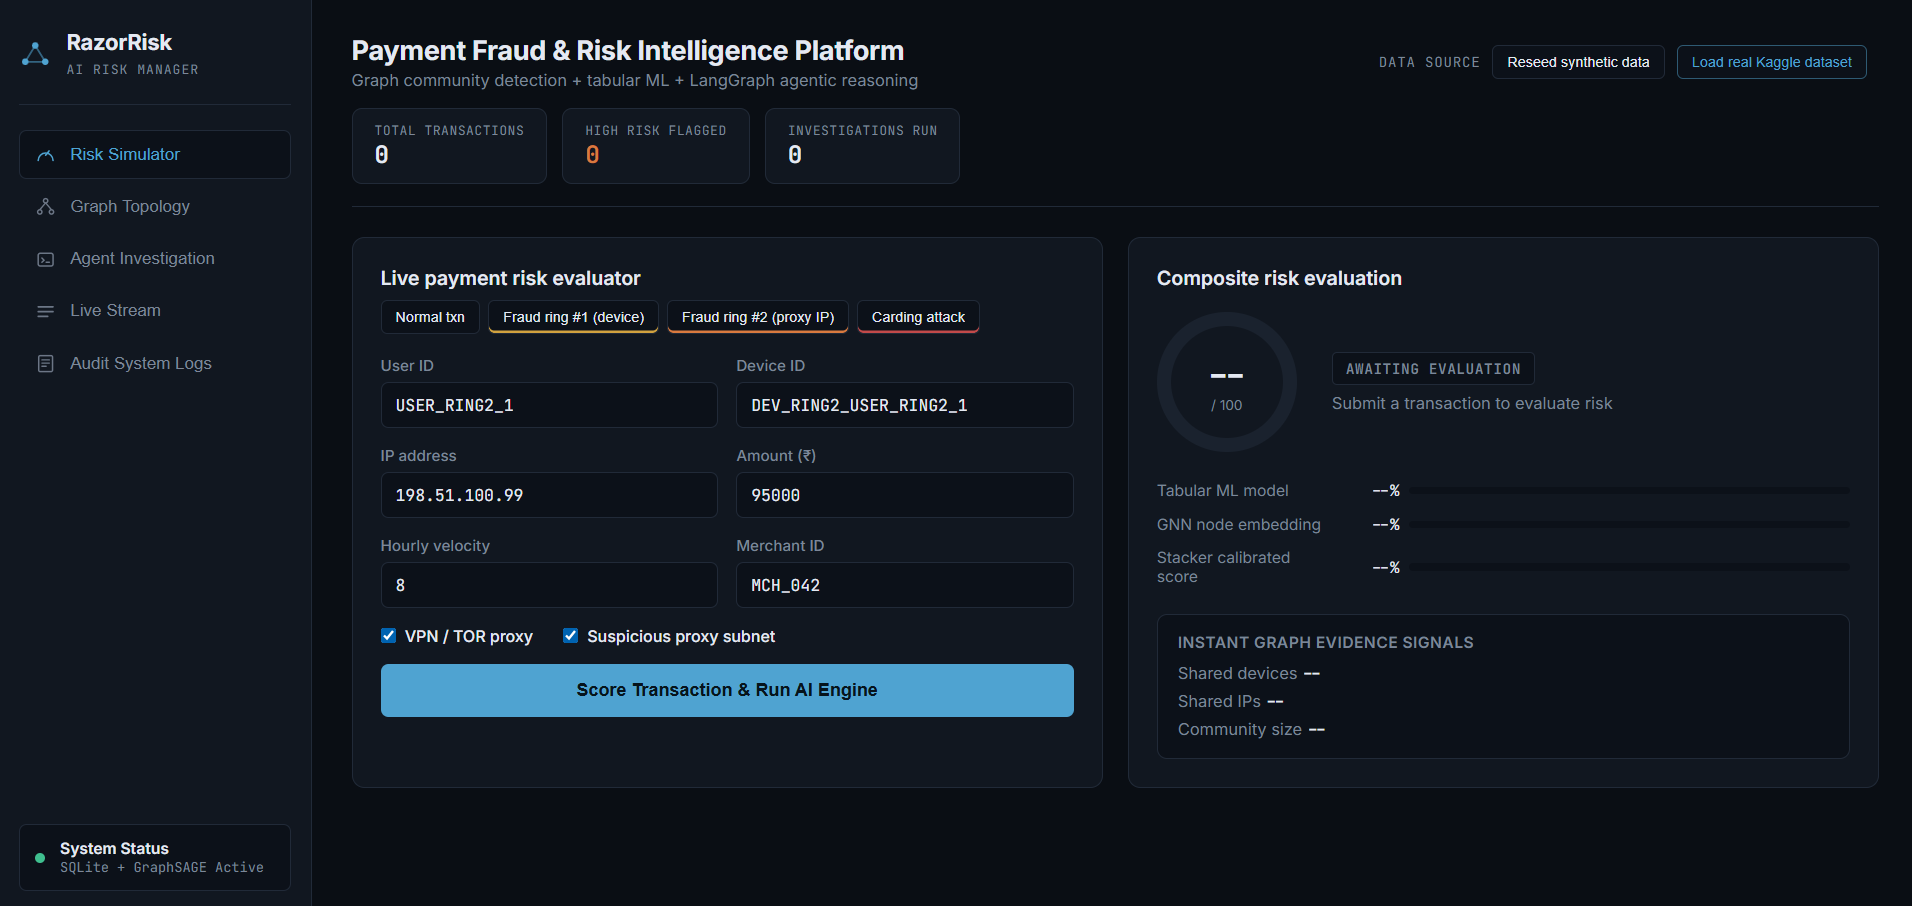
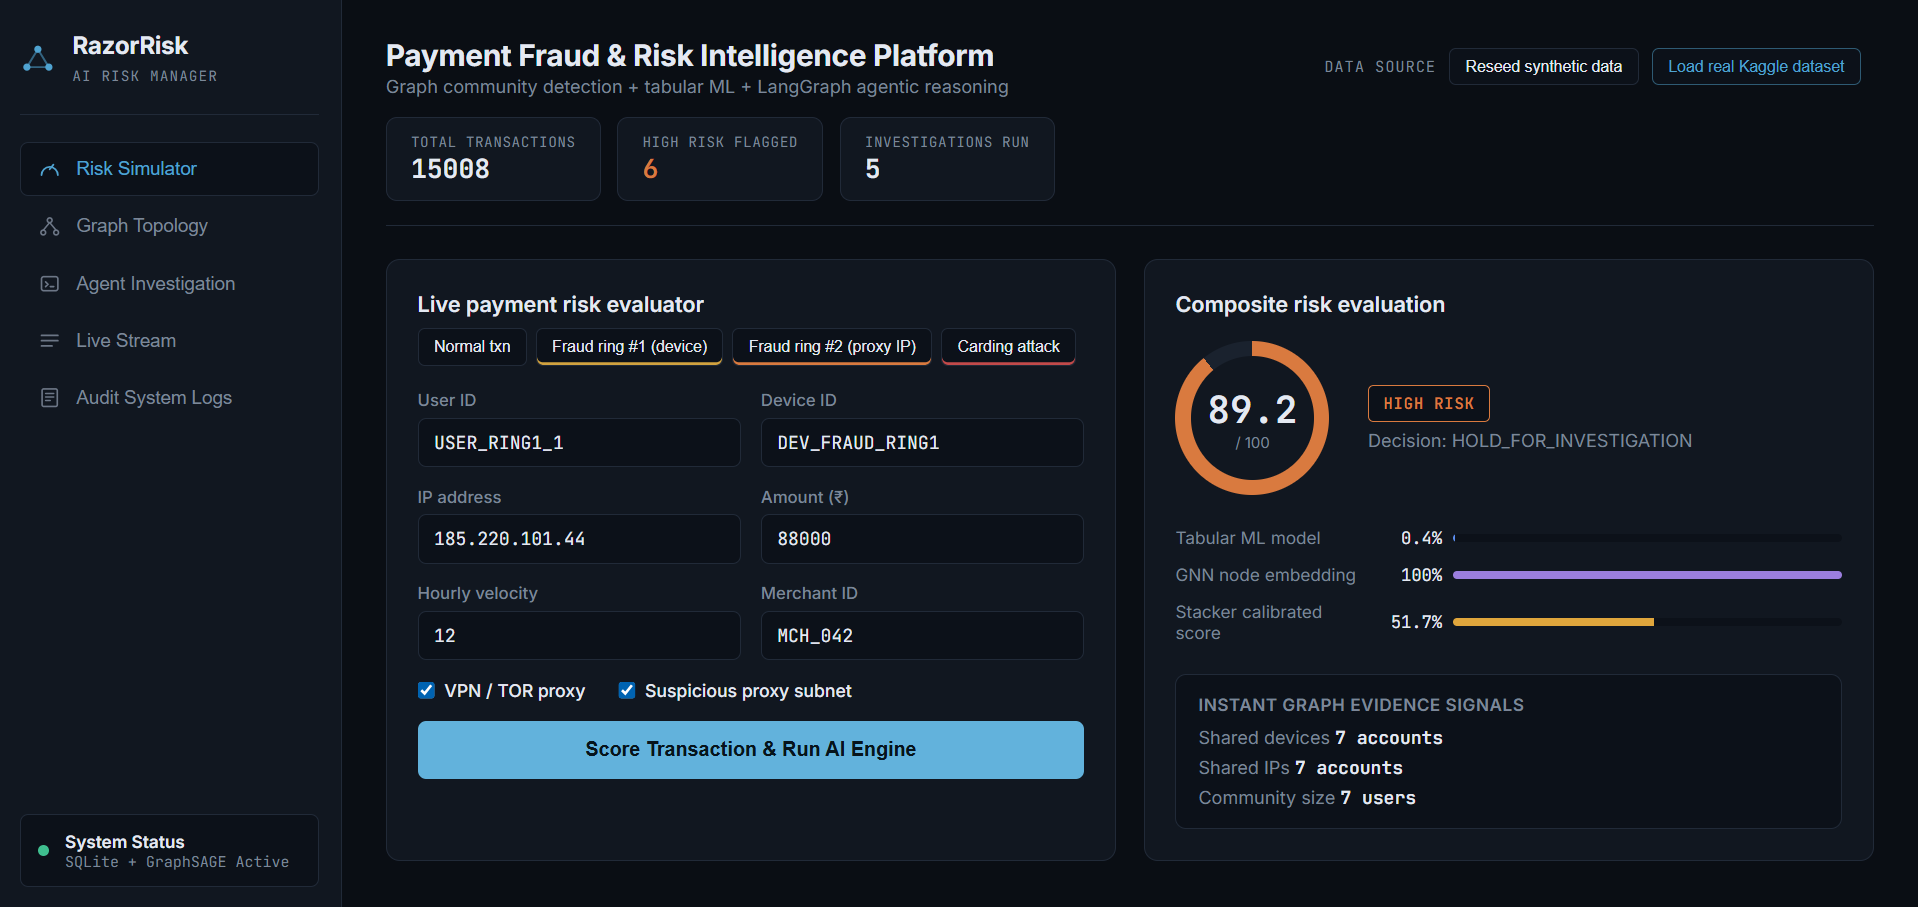
updated readme

diff --git a/README.md b/README.md
@@ -8,27 +8,31 @@ RazorRisk is designed around a specific limitation of transaction-level fraud sc
 
 ## Live Demo / Video / Screenshots
 
-> **ADD YOUR LINKS HERE BEFORE PUBLISHING**
-
-- [**Live Dashboard**] (https://razorrisk-agentic-ai-payment-f-686b5806-26sovuzgtq-as.a.run.app/dashboard/)
--[**API / Swagger**](https://razorrisk-agentic-ai-payment-f-686b5806-26sovuzgtq-as.a.run.app/docs)
-- **Demo Video:** `PASTE_YOUTUBE_OR_DRIVE_VIDEO_LINK_HERE`
+- [**Live Dashboard**](https://razorrisk-agentic-ai-payment-f-686b5806-26sovuzgtq-as.a.run.app/dashboard/)
+- [**API / Swagger**](https://razorrisk-agentic-ai-payment-f-686b5806-26sovuzgtq-as.a.run.app/docs)
+- **Demo Video:** `currently not available`
 
 ### Dashboard
 
 ![alt text](image.png)
 
-### Fraud-Ring Investigation
+### Graph Topology
 
-<!-- SCREENSHOT 2 — SHOW a CRITICAL fraud-ring score + graph + investigation report.
-![Fraud Ring Investigation](PASTE_IMAGE_URL_HERE)
--->
+![alt text](image-3.png)
+
+### Live Stream
+
+![alt text](image-4.png)
+![alt text](image-5.png)
 
 ### Evidence / Agent Mode
 
-<!-- SCREENSHOT 3 — SHOW the evidence panel and the agent-mode/status panel.
-![Investigation Evidence](PASTE_IMAGE_URL_HERE)
--->
+![alt text](image-1.png)
+![alt text](image-2.png)
+
+### Audit System Logs
+
+![alt text](image-6.png)
 
 ---
 
@@ -232,9 +236,9 @@ cp .env.example .env
 # OPENAI_API_KEY=...
 
 # Seed data — choose one:
-python data/generate_synthetic_data.py
+python -m data.generate_synthetic_data
 # or:
-python data/ingest_real_kaggle_dataset.py
+python -m data.ingest_real_kaggle_dataset
 
 # Train tabular model + GNN + learned stacker
 python -m ml.risk_aggregator
